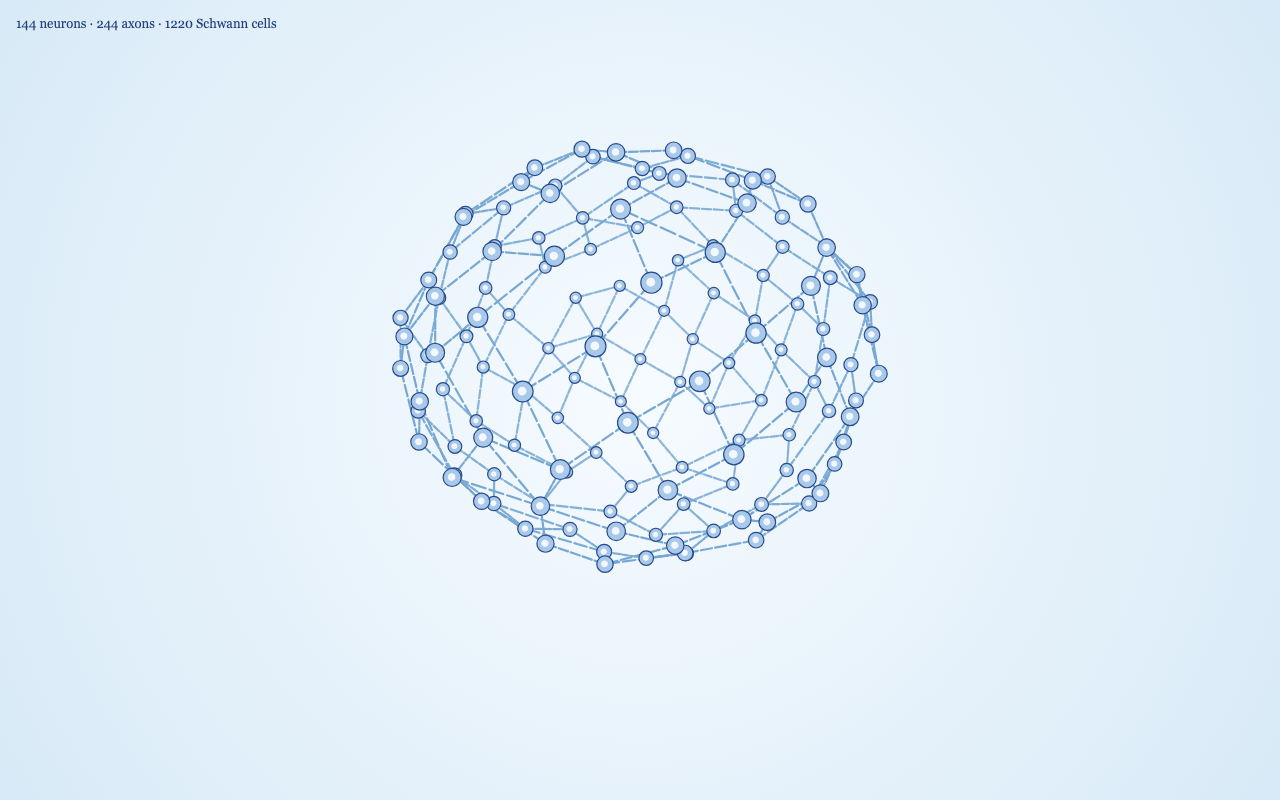
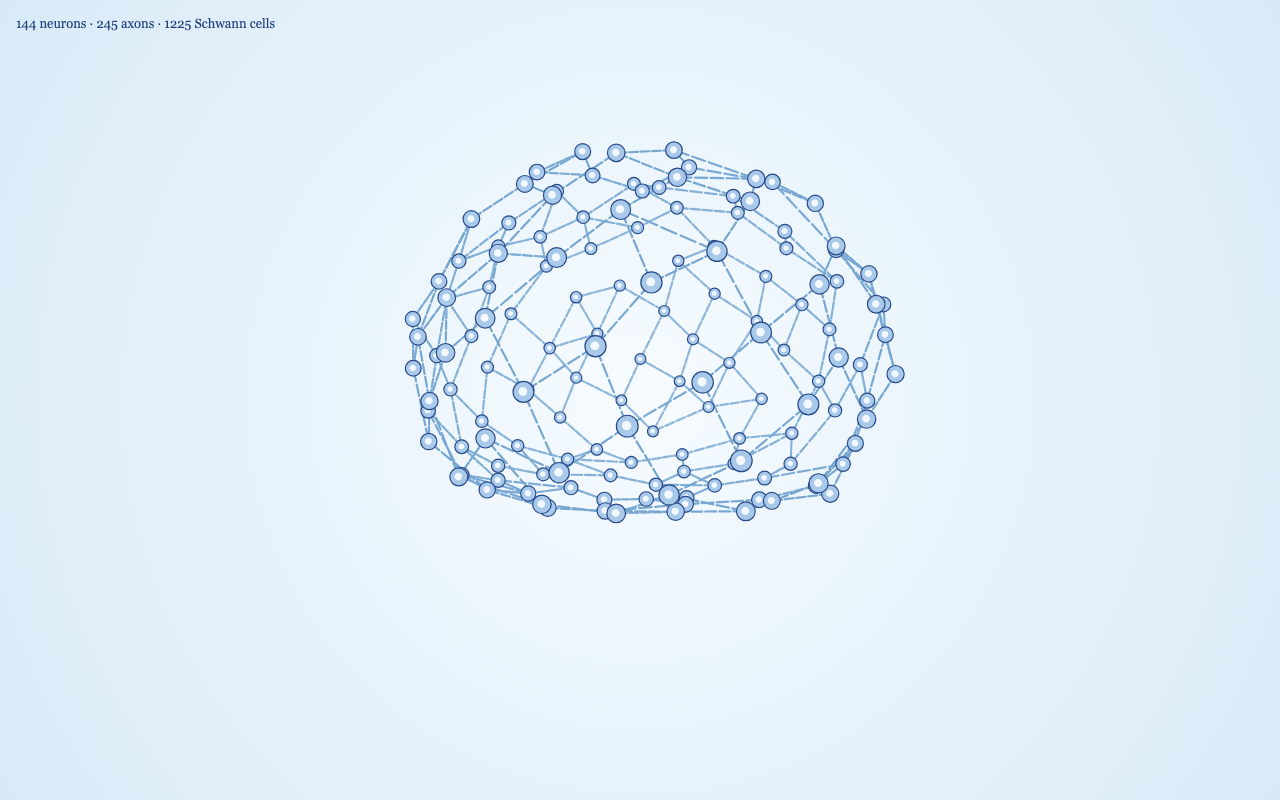
Shape the rotating skeleton into a stylized brain
Warp the oblate point cloud into two hemispheres with a sagittal groove, fuller frontal and temporal regions, a tapered rear, and a flattened underside.

Changed region(s): [[0.3125, 0.1562, 0.7188, 0.7188], [0.1562, 0.0, 0.2188, 0.0625], [0.4375, 0.375, 0.4688, 0.4062]]

diff --git a/brain-3d/js/skeleton.js b/brain-3d/js/skeleton.js
@@ -19,7 +19,34 @@
     return dx * dx + dy * dy + dz * dz;
   }
 
-  // Fibonacci points on a sphere, stretched into an ellipsoid and nudged by the seed.
+  function warpBrain(x, y, z, brain) {
+    const top = Math.max(0, y);
+    const medial = Math.exp(-Math.pow(x / brain.grooveWidth, 2));
+    const side = x < 0 ? -1 : 1;
+
+    // Two upper lobes with a visible longitudinal fissure.
+    x += side * brain.hemisphereSplit * top * medial;
+    y -= brain.grooveDepth * Math.pow(top, 1.5) * medial;
+
+    const front = Math.max(0, z);
+    const rear = Math.max(0, -z);
+    const temporal = Math.exp(-Math.pow((y + 0.32) / 0.3, 2)) *
+      (0.55 + 0.45 * (1 - Math.min(1, Math.abs(z))));
+
+    // Human-brain silhouette: broad frontal and temporal regions, narrower rear.
+    x *= 1 + brain.frontalBulge * front -
+      brain.posteriorTaper * rear + brain.temporalBulge * temporal;
+    z *= 1 + brain.frontalBulge * 0.45 * front -
+      brain.posteriorTaper * 0.35 * rear;
+
+    // Compress the bottom into a flatter base without a hard edge.
+    if (y < brain.underside) {
+      y = brain.underside + (y - brain.underside) * brain.undersideCompression;
+    }
+    return { x: x, y: y, z: z };
+  }
+
+  // Seeded Fibonacci points warped into a stylized brain surface.
   B3.createSkeleton = function (config) {
     const count = config.network.count;
     const shape = config.shape;
@@ -33,11 +60,17 @@
       const y = count === 1 ? 0 : 1 - (i / last) * 2;
       const ring = Math.sqrt(Math.max(0, 1 - y * y));
       const theta = golden * i;
+      const point = warpBrain(
+        Math.cos(theta) * ring + (rng() - 0.5) * jitter,
+        y + (rng() - 0.5) * jitter,
+        Math.sin(theta) * ring + (rng() - 0.5) * jitter,
+        shape.brain
+      );
       neurons.push({
         id: i,
-        x: (Math.cos(theta) * ring + (rng() - 0.5) * jitter) * shape.rx,
-        y: (y + (rng() - 0.5) * jitter) * shape.ry,
-        z: (Math.sin(theta) * ring + (rng() - 0.5) * jitter) * shape.rz
+        x: point.x * shape.rx,
+        y: point.y * shape.ry,
+        z: point.z * shape.rz
       });
     }
 

diff --git a/brain-3d/js/config.js b/brain-3d/js/config.js
@@ -11,8 +11,23 @@
       // Jitter on the unit sphere, before the ellipsoid scale.
       jitter: 0.08
     },
-    // Brain-shaped volume: wider than it is tall.
-    shape: { rx: 1.35, ry: 0.92, rz: 1.05 },
+    shape: {
+      rx: 1.35,
+      ry: 0.92,
+      rz: 1.05,
+      brain: {
+        // Separate the upper hemispheres and cut a shallow sagittal groove.
+        hemisphereSplit: 0.055,
+        grooveDepth: 0.11,
+        grooveWidth: 0.2,
+        // Round the front, taper the rear, and form the lower temporal lobes.
+        frontalBulge: 0.11,
+        posteriorTaper: 0.13,
+        temporalBulge: 0.13,
+        underside: -0.58,
+        undersideCompression: 0.32
+      }
+    },
     spin: { degreesPerSecond: 6 },
     camera: {
       // Distance from the eye to the origin, in skeleton units.

diff --git a/brain-3d/Readme.md b/brain-3d/Readme.md
@@ -1,14 +1,14 @@
 # Brain 3D, v1
 
-A Paper.js drawing of a brain skeleton. Paper.js only draws in 2D, so each neuron is a 3D point. Every frame, the points are rotated around the vertical axis and projected onto the canvas with perspective. Nearer neurons are larger and are drawn on top.
+A Paper.js drawing of a stylized brain skeleton. Paper.js only draws in 2D, so each neuron is a 3D point. Every frame, the points are rotated around the vertical axis and projected onto the canvas with perspective. Nearer neurons are larger and are drawn on top.
 
 ![Brain 3D v1 at the start of the spin](screenshots/v1-t0.png)
 
 v1 is only the skeleton:
 
-- 144 neurons inside a wide ellipsoid. Change `network.count` in `js/config.js`. The layout is seeded, so the same count always gives the same shape.
-- Each neuron connects to its three nearest neighbors. With 144 neurons that gives 244 axons in one connected network.
-- Every axon is drawn as five pronounced, rounded Schwann-cell segments with small gaps: 1,220 visible cells at the default settings.
+- 144 neurons form a brain-like surface with two upper hemispheres, a shallow sagittal groove, a fuller frontal region, temporal bulges, a tapered rear, and a flattened underside. Change `network.count` in `js/config.js`. The layout is seeded, so the same count always gives the same shape.
+- Each neuron connects to its three nearest neighbors. With 144 neurons that gives 245 axons in one connected network.
+- Every axon is drawn as five pronounced, rounded Schwann-cell segments with small gaps: 1,225 visible cells at the default settings.
 - The skeleton turns at 6 degrees per second (`spin.degreesPerSecond`), one full turn per minute.
 - Colors match the awake 2D brain: a light blue radial background, pale blue somas with a dark blue edge, small light nuclei at 0.42 of the soma radius, and blue Schwann cells.
 
@@ -34,19 +34,19 @@ Other URL options:
 - `?bench=1&frames=600` times 600 frames as fast as possible, including the canvas draw, and prints the average and 95th percentile.
 - `?still=1&t=15` draws a single frame 15 seconds into the spin, which is used for screenshots.
 
-Headless Chrome at 1280 by 800, 144 neurons and 244 axons, measured over 600 frames:
+Headless Chrome at 1280 by 800, 144 neurons and 245 axons, measured over 600 frames:
 
 | | Average | 95th percentile |
 |---|---|---|
-| Scene update | 0.34 ms | 0.50 ms |
-| Update plus canvas draw | 2.36 ms | 3.10 ms |
+| Scene update | 0.35 ms | 0.50 ms |
+| Update plus canvas draw | 2.39 ms | 2.90 ms |
 
-That remains well under the 16.7 ms budget for 60 frames per second with 1,220 Schwann-cell paths.
+That remains well under the 16.7 ms budget for 60 frames per second with 1,225 Schwann-cell paths.
 
 ## Files
 
 - `index.html` loads Paper.js 0.12.17 and the scripts.
-- `js/config.js` holds the neuron count, shape, spin rate, camera, colors, nucleus ratio, and Schwann-cell styling.
-- `js/skeleton.js` builds the seeded points and nearest-neighbor axons.
+- `js/config.js` holds the neuron count, brain-shape controls, spin rate, camera, colors, nucleus ratio, and Schwann-cell styling.
+- `js/skeleton.js` builds the seeded points, applies the configurable brain-surface warp, and connects nearest-neighbor axons.
 - `js/renderer.js` creates the Paper items once, then moves, scales, and reorders them each frame. It evenly interpolates five pooled Schwann segments along every projected axon.
 - `js/main.js` sets up the canvas, the frame loop, and the bench and still modes.
